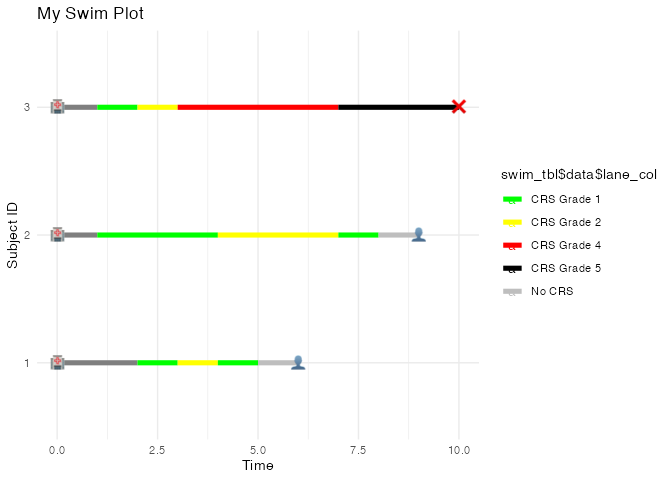
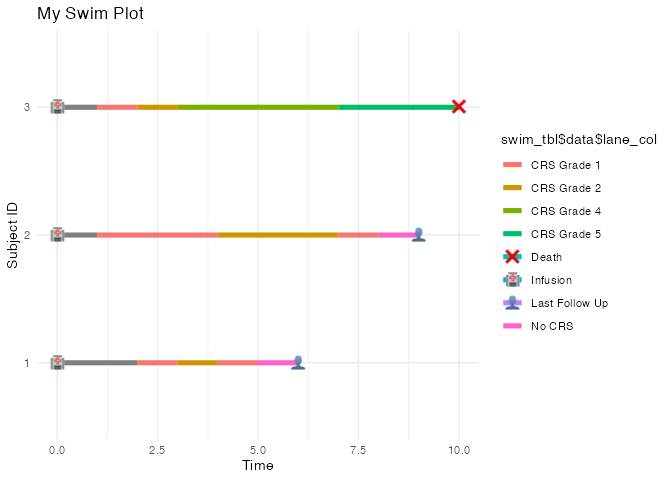
Update README

diff --git a/README.md b/README.md
@@ -52,6 +52,27 @@ df <- tibble::tribble(
 )
 
 df
+#> # A tibble: 18 × 3
+#>    subject_id  time event         
+#>         <dbl> <dbl> <chr>         
+#>  1          1     0 Infusion      
+#>  2          1     2 CRS Grade 1   
+#>  3          1     3 CRS Grade 2   
+#>  4          1     4 CRS Grade 1   
+#>  5          1     5 No CRS        
+#>  6          1     6 Last Follow Up
+#>  7          2     0 Infusion      
+#>  8          2     1 CRS Grade 1   
+#>  9          2     4 CRS Grade 2   
+#> 10          2     7 CRS Grade 1   
+#> 11          2     8 No CRS        
+#> 12          2     9 Last Follow Up
+#> 13          3     0 Infusion      
+#> 14          3     1 CRS Grade 1   
+#> 15          3     2 CRS Grade 2   
+#> 16          3     3 CRS Grade 4   
+#> 17          3     7 CRS Grade 5   
+#> 18          3    10 Death
 ```
 
 We’ll also pre-define some arguments of interest and the plot
@@ -85,4 +106,7 @@ ggswim(id = subject_id,
        title = "My Swim Plot",
        xlab = "Time",
        ylab = "Subject ID")
+#> Warning: Removed 12 rows containing missing values (`geom_label()`).
 ```
+
+<img src="man/figures/README-ggswim-1.png" width="100%" />
